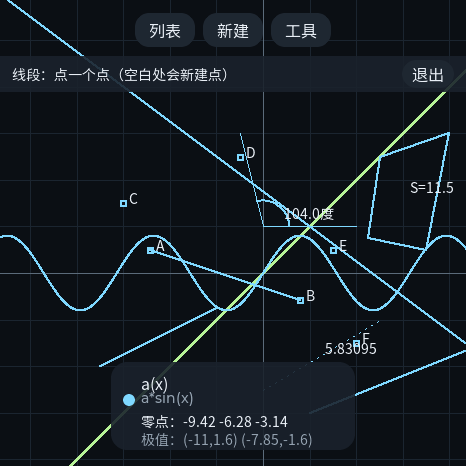
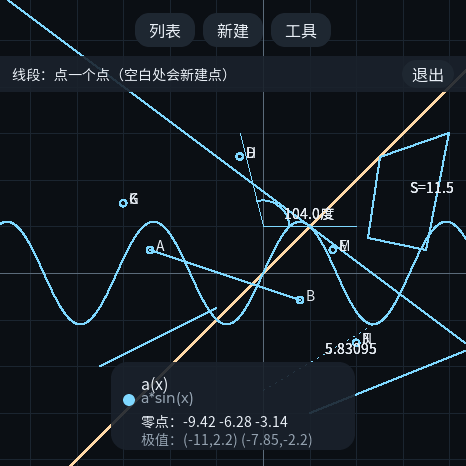
feat: 点改为实心圆；点击曲线显示该点坐标与解析式

diff --git a/app/src/main/cpp/ui/ui_graph.c b/app/src/main/cpp/ui/ui_graph.c
@@ -47,7 +47,13 @@ static lv_obj_t *g_card_expr;
 static lv_obj_t *g_card_err;
 static lv_obj_t *g_card_roots;
 static lv_obj_t *g_card_ext;
+static lv_obj_t *g_card_point;
 static lv_coord_t g_card_h = 52;
+
+/* 点击曲线后记住那个点的世界坐标（卡片里显示「点：(x, y)」）。 */
+static int g_tap_id;
+static bool g_tap_valid;
+static double g_tap_wx, g_tap_wy;
 
 /* 底部「− 滑动条 ＋」缩放栏（设置里打开才创建）。 */
 static lv_obj_t *g_zoom_bar;
@@ -513,14 +519,31 @@ static void draw_arc(float cx, float cy, float r, float a0, float a1,
     }
 }
 
+/** 实心圆（点用；Bresenham 太细，这里直接扫包围盒）。 */
+static void fill_circle(float cx, float cy, float r, uint32_t c)
+{
+    int x0 = (int)floorf(cx - r);
+    int x1 = (int)ceilf(cx + r);
+    int y0 = (int)floorf(cy - r);
+    int y1 = (int)ceilf(cy + r);
+    float r2 = r * r;
+    for (int y = y0; y <= y1; y++) {
+        for (int x = x0; x <= x1; x++) {
+            float dx = (float)x + 0.5f - cx;
+            float dy = (float)y + 0.5f - cy;
+            if (dx * dx + dy * dy <= r2) put(x, y, c);
+        }
+    }
+}
+
 static void draw_geo_point(const fd_geo *g)
 {
     float sx, sy;
     world_to_screen(g->p[0], &sx, &sy);
     int x = (int)lroundf(sx);
     int y = (int)lroundf(sy);
-    dot(x, y, 7, rgb(FD_C_ACCENT));
-    dot(x, y, 3, rgb(FD_C_BG));
+    fill_circle(sx, sy, 4.5f, rgb(FD_C_ACCENT));
+    fill_circle(sx, sy, 2.0f, rgb(FD_C_BG));
     if (g->name[0]) add_tag(x + 6, y - 18, g->name, FD_C_TEXT);
 }
 
@@ -679,6 +702,11 @@ static void update_features(const fd_curve *c)
 {
     char roots_txt[96] = "";
     char ext_txt[96] = "";
+    char point_txt[80] = "";
+
+    if (c && g_tap_valid && g_tap_id == c->fn.id) {
+        snprintf(point_txt, sizeof(point_txt), "点：(%.3g, %.3g)", g_tap_wx, g_tap_wy);
+    }
 
     if (c && c->fn.mode == FD_PLOT_EXPLICIT) {
         char body[FD_SRC_CAP];
@@ -732,10 +760,23 @@ static void update_features(const fd_curve *c)
         }
     }
 
+    set_feature_line(g_card_point, point_txt);
     set_feature_line(g_card_roots, roots_txt);
     set_feature_line(g_card_ext, ext_txt);
 
-    int lines = (roots_txt[0] ? 1 : 0) + (ext_txt[0] ? 1 : 0);
+    lv_coord_t y = 46;
+    if (point_txt[0] && g_card_point) {
+        lv_obj_set_pos(g_card_point, 30, y);
+        y += 18;
+    }
+    if (roots_txt[0] && g_card_roots) {
+        lv_obj_set_pos(g_card_roots, 30, y);
+        y += 18;
+    }
+    if (ext_txt[0] && g_card_ext) lv_obj_set_pos(g_card_ext, 30, y);
+
+    int lines = (point_txt[0] ? 1 : 0) + (roots_txt[0] ? 1 : 0) +
+                (ext_txt[0] ? 1 : 0);
     g_card_h = (lv_coord_t)(52 + lines * 18);
     if (g_card) lv_obj_set_height(g_card, g_card_h);
 }
@@ -781,8 +822,7 @@ static void draw_complex(void)
 
         float sx = fd_vp_to_screen_x(&d->vp, v.re);
         float sy = fd_vp_to_screen_y(&d->vp, v.im);
-        dot((int)lroundf(sx), (int)lroundf(sy), 8,
-            rgb(model_color(c->fn.color_index)));
+        fill_circle(sx, sy, 4.5f, rgb(model_color(c->fn.color_index)));
 
         char lbl[64];
         char txt[96];
@@ -820,6 +860,7 @@ static void update_card(void)
         if (!cpx_eval_curve(c, &v, &err)) {
             lv_label_set_text(g_card_err, err.message[0] ? err.message : "表达式无效");
             lv_obj_remove_flag(g_card_err, LV_OBJ_FLAG_HIDDEN);
+            set_feature_line(g_card_point, "");
             set_feature_line(g_card_roots, "");
             set_feature_line(g_card_ext, "");
             g_card_h = 52;
@@ -832,6 +873,7 @@ static void update_card(void)
         char txt[96];
         fd_cpx_label(v, lbl, sizeof(lbl));
         snprintf(txt, sizeof(txt), "结果：%s", lbl);
+        set_feature_line(g_card_point, "");
         set_feature_line(g_card_roots, txt);
         set_feature_line(g_card_ext, "");
         g_card_h = 70;
@@ -899,6 +941,59 @@ static int hit_test(float x, float y)
                 best = d2;
                 found = pl->function_id;
             }
+        }
+    }
+    return found;
+}
+
+/** 曲线折线上离点击位置最近的一个采样点（世界坐标）。 */
+static bool nearest_curve_point(int id, float sx, float sy, double *wx, double *wy)
+{
+    fd_doc *d = model();
+    float best = FD_GRAPH_HIT_PX * FD_GRAPH_HIT_PX;
+    bool found = false;
+
+    for (int i = 0; i < g_plot.line_count; i++) {
+        const fd_polyline *pl = &g_plot.lines[i];
+        if (pl->function_id != id) continue;
+        for (int k = 0; k < pl->count; k++) {
+            float dx = pl->xy[2 * k] - sx;
+            float dy = pl->xy[2 * k + 1] - sy;
+            float d2 = dx * dx + dy * dy;
+            if (d2 < best) {
+                best = d2;
+                *wx = fd_vp_to_world_x(&d->vp, pl->xy[2 * k]);
+                *wy = fd_vp_to_world_y(&d->vp, pl->xy[2 * k + 1]);
+                found = true;
+            }
+        }
+    }
+    return found;
+}
+
+/** 复平面：离点击位置最近的结果点。 */
+static int complex_hit(float sx, float sy)
+{
+    fd_doc *d = model();
+    float best = FD_GRAPH_HIT_PX * FD_GRAPH_HIT_PX;
+    int found = 0;
+
+    for (int i = 0; i < d->curve_count; i++) {
+        const fd_curve *c = &d->curves[i];
+        if (!c->fn.visible || c->fn.src1[0] == '\0') continue;
+        fd_expr_error err;
+        fd_complex v;
+        memset(&err, 0, sizeof(err));
+        if (!cpx_eval_curve(c, &v, &err)) continue;
+        if (!isfinite(v.re) || !isfinite(v.im)) continue;
+        float px = fd_vp_to_screen_x(&d->vp, v.re);
+        float py = fd_vp_to_screen_y(&d->vp, v.im);
+        float dx = px - sx;
+        float dy = py - sy;
+        float d2 = dx * dx + dy * dy;
+        if (d2 < best) {
+            best = d2;
+            found = c->fn.id;
         }
     }
     return found;
@@ -1540,9 +1635,19 @@ void ui_graph_touch(int action, int count, float x0, float y0, float x1, float y
                         g_last_tap_tick = now;
                         g_last_tap_x = g_down_x;
                         g_last_tap_y = g_down_y;
-                        int id = hit_test(g_down_x, g_down_y);
+                        int id = model()->settings.complex_plane
+                                         ? complex_hit(g_down_x, g_down_y)
+                                         : hit_test(g_down_x, g_down_y);
                         if (id) {
                             model_select(id);
+                            g_tap_id = id;
+                            g_tap_valid = !model()->settings.complex_plane &&
+                                          nearest_curve_point(id, g_down_x, g_down_y,
+                                                              &g_tap_wx, &g_tap_wy);
+                            repaint();
+                        } else if (g_tap_valid) {
+                            g_tap_valid = false;
+                            g_tap_id = 0;
                             repaint();
                         }
                     }
@@ -1630,6 +1735,9 @@ void ui_graph_detach(void)
     g_card_err = NULL;
     g_card_roots = NULL;
     g_card_ext = NULL;
+    g_card_point = NULL;
+    g_tap_valid = false;
+    g_tap_id = 0;
     g_zoom_bar = NULL;
     g_zoom_slider = NULL;
     g_zoom_depth = 0.0f;
@@ -2081,6 +2189,13 @@ static void build_card(lv_obj_t *parent)
     lv_obj_align(g_card_err, LV_ALIGN_TOP_LEFT, 30, 28);
 
     /* 零点 / 极值两行，有内容才显示（卡片高度随之变化）。 */
+    g_card_point = lv_label_create(card);
+    lv_label_set_text(g_card_point, "");
+    lv_obj_add_flag(g_card_point, LV_OBJ_FLAG_HIDDEN);
+    lv_obj_set_style_text_font(g_card_point, &font_cn_14, 0);
+    lv_obj_set_style_text_color(g_card_point, lv_color_hex(FD_C_ACCENT), 0);
+    lv_obj_align(g_card_point, LV_ALIGN_TOP_LEFT, 30, 46);
+
     g_card_roots = lv_label_create(card);
     lv_label_set_text(g_card_roots, "");
     lv_obj_add_flag(g_card_roots, LV_OBJ_FLAG_HIDDEN);

diff --git a/app/src/main/cpp/tests/ui_smoke.c b/app/src/main/cpp/tests/ui_smoke.c
@@ -396,6 +396,15 @@ int main(int argc, char **argv)
     dump("21_export_dialog");
     ui_archive_close_dialog();
 
+    /* 点击曲线：卡片显示该点坐标 + 解析式 + 零点/极值 */
+    ui_show(UI_SCR_GRAPH);
+    model_reset_view();
+    ui_graph_invalidate();
+    pump(4);
+    tap(233, 233);
+    pump(4);
+    dump("22_curve_point");
+
     /* 复平面：一条复数表达式，结果画成点 */
     {
         int id = model_add_curve(FD_PLOT_EXPLICIT);

diff --git a/README.md b/README.md
@@ -237,7 +237,7 @@ bash app/src/main/cpp/tests/build_ui_host.sh
    存档 → 清空 → 读回，核对对象数量与画面；
 5. 导出 PNG 并校验文件存在。
 
-产物（`test-artifacts/lvgl-smoke/`）：`01_graph` … `21_export_dialog`，共 21 张截图，
+产物（`test-artifacts/lvgl-smoke/`）：`01_graph` … `22_curve_point`，共 22 张截图，
 外加 `data/archives/smoke.png` 与 `data/autosave.fd`。
 
 ---
@@ -277,7 +277,7 @@ node node_modules/lv_font_conv/lv_font_conv.js \
 
 | 屏幕 | 内容 |
 |---|---|
-| 绘图 | 网格/坐标轴/刻度、曲线、几何对象、工具提示条、底部信息卡（名字/解析式/错误/零点/极值；复平面下显示结果）、顶部按钮条、可选缩放栏 |
+| 绘图 | 网格/坐标轴/刻度、曲线、几何对象、工具提示条、底部信息卡（名字/解析式/错误/点击点坐标/零点/极值；复平面下显示结果）、顶部按钮条、可选缩放栏 |
 | 函数列表 | 曲线行（名字 + 解析式摘要、显/隐、删除、左滑删除，长按进属性）、几何对象行（名字 + 类型/度量值、显/隐、删除）、参数滑动条、播放键、示例库、新建、存档/设置/关于入口 |
 | 编辑器 | 四种模式切换、表达式输入框（参数方程两个）、四页自绘键盘、错误提示、完成 |
 | 属性 | 颜色（12 色）、线宽（1–4 px）、线型（实线/虚线/点线）、显隐、角度模式、撤销/重做/删除 |
@@ -292,7 +292,7 @@ node node_modules/lv_font_conv/lv_font_conv.js \
 | 单指拖动 | 平移（曲线与网格用同一个视口重画） |
 | 双指捏合 | 以两指中点为中心缩放 |
 | 双击画布 | 复位视野到 `x ∈ [-10, 10]` |
-| 单击曲线 | 选中该曲线，底部信息卡显示名字 / 解析式 / 错误 / 零点 / 极值 |
+| 单击曲线 | 选中曲线，信息卡显示解析式 + 点击位置的点坐标（`点：(x, y)`）+ 零点 / 极值 |
 | 长按（>700ms）空白/对象 | 删除附近的作图对象 |
 | 旋转表冠 | 默认缩放（设置里可改成上下平移） |
 | 缩放栏（可选） | 底部「− / 滑动条 / +」：按键一次 1.5 倍，滑轨只做相对微调，按完回中点 |
